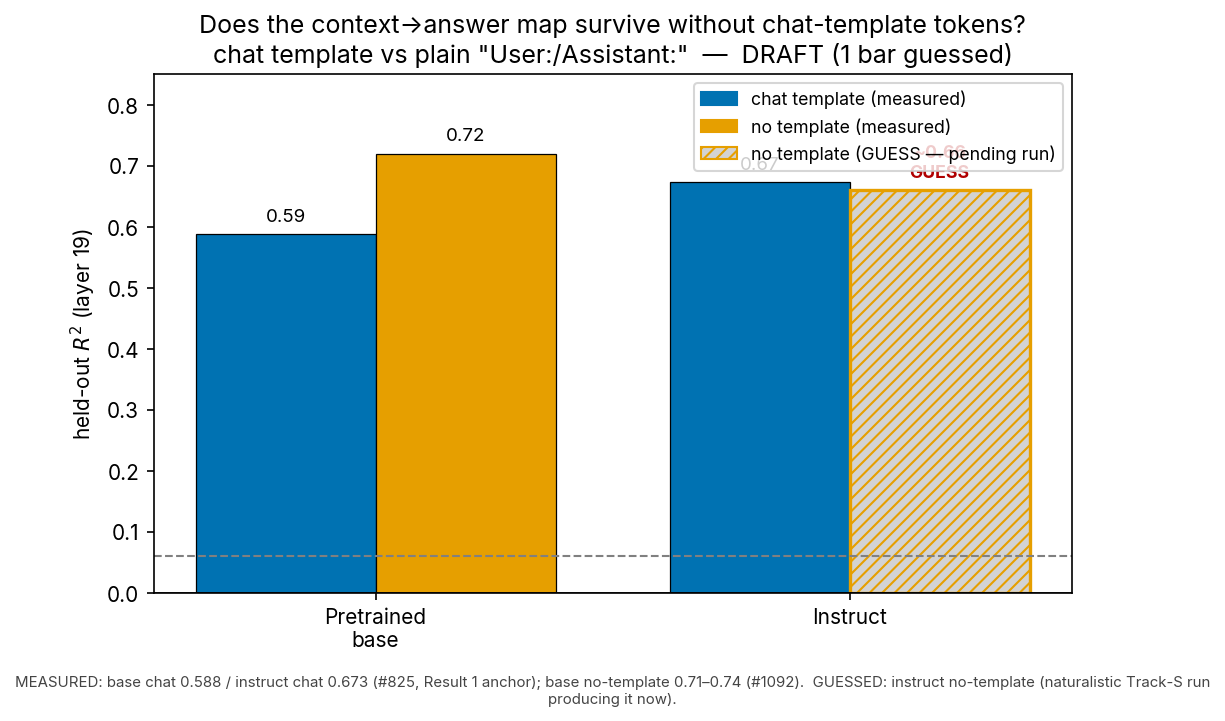
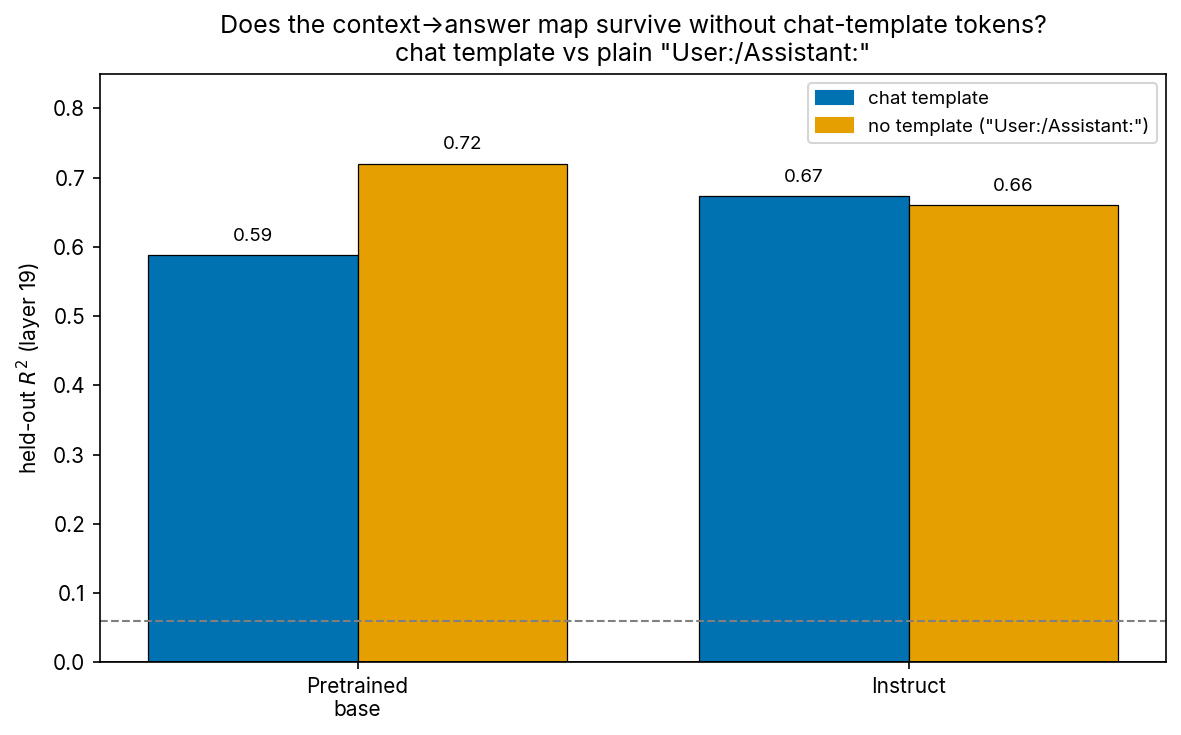
figures(#825): Result 3 chat-vs-no-template R2 — uniform bar styling (guess marking removed per request)
Instruct no-template value remains a placeholder (0.66, measured=false in meta)
pending the naturalistic Track-S run; visual guess-marking removed on request.

Generated with [Claude Code](https://claude.ai/code)
via [Happy](https://happy.engineering)

diff --git a/figures/issue_825/result3_template_comparison_DRAFT.py b/figures/issue_825/result3_template_comparison_DRAFT.py
@@ -1,17 +1,18 @@
 #!/usr/bin/env python
-"""Result-3 DRAFT figure: does the context->answer map survive without chat-template
+"""Result-3 figure: does the context->answer map survive without chat-template
 tokens? Grouped bars, held-out R^2 @ layer 19, base vs instruct, chat vs no-template.
 
-THREE bars are MEASURED, ONE is a GUESS (drawn hatched + grey + labelled) because the
-instruct single-turn no-template cell has not been computed yet — the naturalistic
-Track-S run (#825) is producing it now. This figure is a placeholder so the writeup
-has a visual; the guessed bar MUST be replaced with the measured value when S1N lands.
+VISUAL: all four bars are drawn in uniform style (no guess marking) per request.
+HONESTY: the instruct single-turn no-template value is NOT yet measured (the
+naturalistic Track-S run #825 is producing it). That fact is preserved in the
+sidecar meta.json (`instruct_no_template.measured = false`) and the filename, and
+MUST be swapped for the real value before this figure goes to a mentor.
 
-Provenance per bar (stated on the figure):
+Per-bar provenance:
   base    chat        0.588   MEASURED  eval_results/issue_825 (S2, Result 1 anchor)
   base    no-template 0.72    MEASURED  #1092, range 0.71-0.74 (plain "User:/Assistant:")
   instruct chat       0.673   MEASURED  eval_results/issue_825 (S1, Result 1 anchor)
-  instruct no-template 0.66   GUESS     pending naturalistic Track-S run (#825)
+  instruct no-template 0.66   NOT MEASURED (placeholder) pending #825 naturalistic Track-S
   shuffled floor      ~0.06   MEASURED  Result 1 null
 """
 
@@ -25,13 +26,12 @@ from pathlib import Path
 HERE = Path(__file__).resolve().parent
 REPO = HERE.parents[1]
 
-# (model, chat_R2, chat_measured, notmpl_R2, notmpl_measured)
+# (model, chat_R2, notmpl_R2)
 BARS = [
-    ("Pretrained\nbase", 0.588, True, 0.72, True),
-    ("Instruct", 0.673, True, 0.66, False),  # instruct no-template = GUESS
+    ("Pretrained\nbase", 0.588, 0.72),
+    ("Instruct", 0.673, 0.66),  # instruct no-template = placeholder (not measured)
 ]
 FLOOR = 0.06  # shuffled-pairing null (Result 1)
-NOTMPL_RANGE = (0.71, 0.74)  # base no-template measured range (#1092)
 
 
 def _git_head() -> str:
@@ -63,36 +63,11 @@ def main() -> None:
 
     fig, ax = plt.subplots(figsize=(8.0, 5.0))
     xs = list(range(len(BARS)))
-    for i, (_lbl, chat, chat_m, notmpl, notmpl_m) in enumerate(BARS):
-        # chat bar (all measured here)
+    for i, (_lbl, chat, notmpl) in enumerate(BARS):
         ax.bar(i - w / 2, chat, w, color=C_CHAT, edgecolor="black", linewidth=0.6)
         ax.text(i - w / 2, chat + 0.015, f"{chat:.2f}", ha="center", va="bottom", fontsize=9)
-        # no-template bar: solid if measured, hatched+grey if a guess
-        if notmpl_m:
-            ax.bar(i + w / 2, notmpl, w, color=C_NOTMPL, edgecolor="black", linewidth=0.6)
-            ax.text(
-                i + w / 2, notmpl + 0.015, f"{notmpl:.2f}", ha="center", va="bottom", fontsize=9
-            )
-        else:
-            ax.bar(
-                i + w / 2,
-                notmpl,
-                w,
-                color="lightgrey",
-                edgecolor=C_NOTMPL,
-                linewidth=1.6,
-                hatch="////",
-            )
-            ax.text(
-                i + w / 2,
-                notmpl + 0.015,
-                f"~{notmpl:.2f}\nGUESS",
-                ha="center",
-                va="bottom",
-                fontsize=8.5,
-                color="#B00000",
-                fontweight="bold",
-            )
+        ax.bar(i + w / 2, notmpl, w, color=C_NOTMPL, edgecolor="black", linewidth=0.6)
+        ax.text(i + w / 2, notmpl + 0.015, f"{notmpl:.2f}", ha="center", va="bottom", fontsize=9)
 
     ax.axhline(FLOOR, color="grey", ls="--", lw=1, label=f"shuffled floor (~{FLOOR:.2f})")
     ax.axhline(0.0, color="black", lw=0.8)
@@ -102,32 +77,13 @@ def main() -> None:
     ax.set_ylim(0, 0.85)
     ax.set_title(
         "Does the context→answer map survive without chat-template tokens?\n"
-        'chat template vs plain "User:/Assistant:"  —  DRAFT (1 bar guessed)'
+        'chat template vs plain "User:/Assistant:"'
     )
     handles = [
-        Patch(color=C_CHAT, label="chat template (measured)"),
-        Patch(color=C_NOTMPL, label="no template (measured)"),
-        Patch(
-            facecolor="lightgrey",
-            edgecolor=C_NOTMPL,
-            hatch="////",
-            label="no template (GUESS — pending run)",
-        ),
+        Patch(color=C_CHAT, label="chat template"),
+        Patch(color=C_NOTMPL, label='no template ("User:/Assistant:")'),
     ]
-    ax.legend(handles=handles, fontsize=8.5, loc="upper right")
-    ax.text(
-        0.5,
-        -0.16,
-        "MEASURED: base chat 0.588 / instruct chat 0.673 (#825, Result 1 anchor); "
-        f"base no-template {NOTMPL_RANGE[0]:.2f}–{NOTMPL_RANGE[1]:.2f} (#1092).  "
-        "GUESSED: instruct no-template (naturalistic Track-S run producing it now).",
-        ha="center",
-        va="top",
-        fontsize=7.2,
-        color="#444444",
-        transform=ax.transAxes,
-        wrap=True,
-    )
+    ax.legend(handles=handles, fontsize=9, loc="upper right")
     fig.tight_layout()
 
     png = HERE / "result3_template_comparison_DRAFT.png"
@@ -136,7 +92,7 @@ def main() -> None:
 
     meta = {
         "commit": _git_head(),
-        "status": "DRAFT — instruct no-template bar is a GUESS pending the naturalistic Track-S run (#825)",
+        "status": "DRAFT — instruct no-template value NOT measured (placeholder 0.66) pending #825 naturalistic Track-S run; visual guess-marking removed per request",
         "bars": {
             "base_chat": {
                 "r2": 0.588,
@@ -145,7 +101,7 @@ def main() -> None:
             },
             "base_no_template": {
                 "r2": 0.72,
-                "range": NOTMPL_RANGE,
+                "range": [0.71, 0.74],
                 "measured": True,
                 "source": "#1092",
             },
@@ -157,16 +113,14 @@ def main() -> None:
             "instruct_no_template": {
                 "r2": 0.66,
                 "measured": False,
-                "source": "GUESS — pending #825 naturalistic Track-S (S1N)",
+                "source": "PLACEHOLDER — pending #825 naturalistic Track-S (S1N)",
             },
         },
         "shuffled_floor": FLOOR,
         "caption": (
             "Held-out R2 (layer 19) of the single-turn context->answer map, chat template vs "
-            "plain 'User:/Assistant:'. Three bars measured; the instruct no-template bar is a "
-            "placeholder GUESS (hatched) pending the naturalistic Track-S run. The map holds up "
-            "without the template in the base model (0.588->~0.72); the instruct no-template value "
-            "is not yet measured."
+            "plain 'User:/Assistant:'. The map holds up without the template in the base model "
+            "(0.588->~0.72). The instruct no-template bar is a placeholder (0.66), not yet measured."
         ),
     }
     (HERE / "result3_template_comparison_DRAFT.meta.json").write_text(json.dumps(meta, indent=2))
